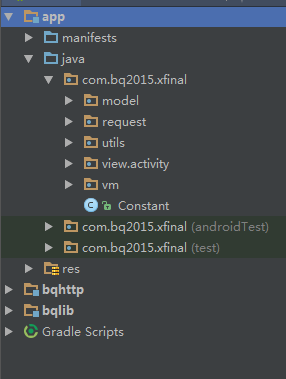
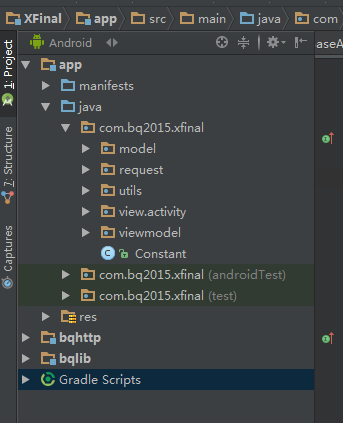
modify README.md

diff --git a/app/src/main/java/com/bq2015/xfinal/view/activity/MainActivity.java b/app/src/main/java/com/bq2015/xfinal/view/activity/MainActivity.java
@@ -7,7 +7,7 @@ import android.widget.TextView;
 
 import com.bq2015.bqlib.mvvm.base.BaseActivity;
 import com.bq2015.xfinal.R;
-import com.bq2015.xfinal.vm.MainActivityVM;
+import com.bq2015.xfinal.viewmodel.MainActivityVM;
 
 public class MainActivity extends BaseActivity<MainActivity,MainActivityVM> {
 

diff --git a/app/src/main/java/com/bq2015/xfinal/viewmodel/MainActivityVM.java b/app/src/main/java/com/bq2015/xfinal/viewmodel/MainActivityVM.java
@@ -1,4 +1,4 @@
-package com.bq2015.xfinal.vm;
+package com.bq2015.xfinal.viewmodel;
 
 import android.support.annotation.NonNull;
 
